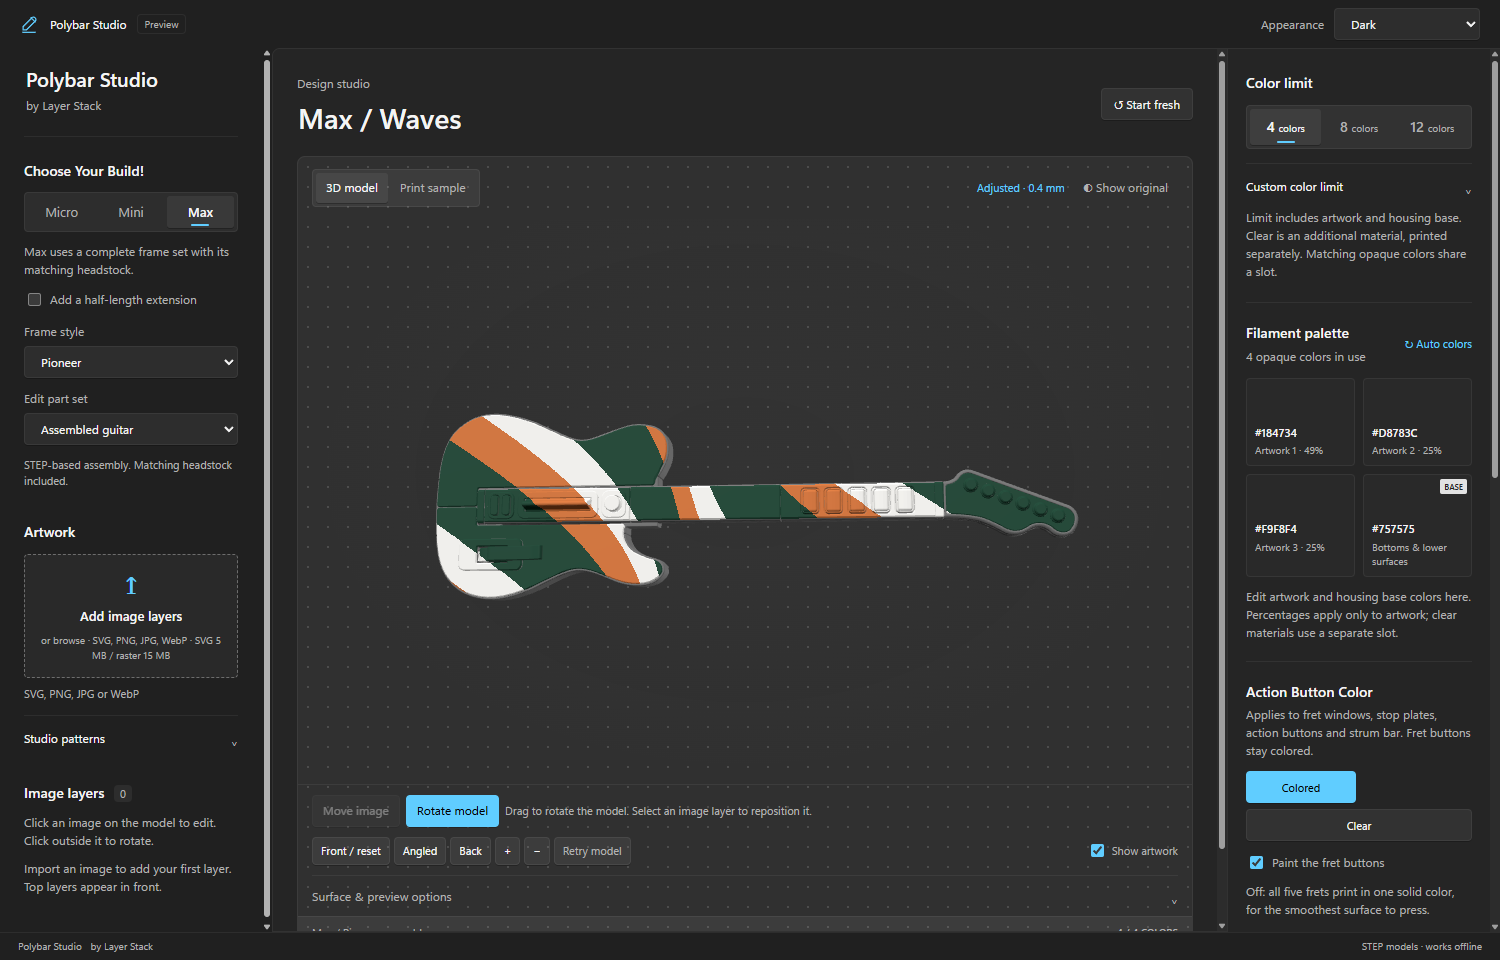
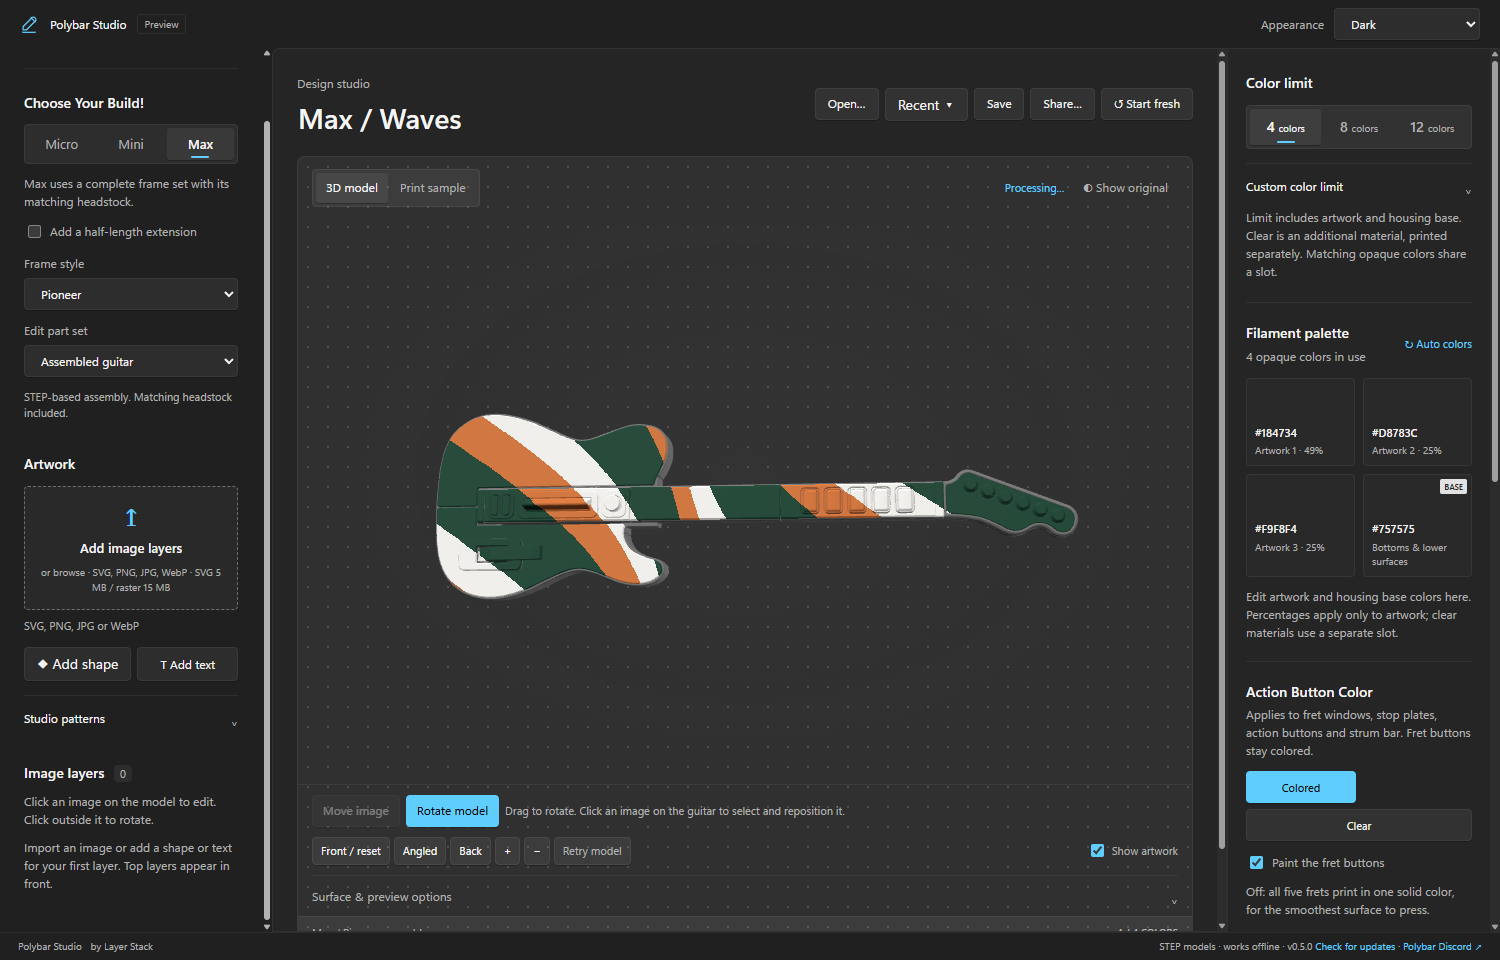
0.5.0: design files, Share and the Polybar Discord, shapes and text, updates; new screenshots

diff --git a/README.md b/README.md
@@ -2,9 +2,9 @@
 
 Paint your Polybar Micro, Mini or Max, then get a print-ready Bambu Studio project for your Bambu Lab printer.
 
-[![Download for Windows](https://img.shields.io/badge/Download_for_Windows-Polybar_Studio_0.4.0-0078D4?style=for-the-badge&logo=windows)](https://github.com/3D-Printed-Controller-Systems/Polybar-Studio-Release/releases/latest/download/Polybar-Studio-Windows.exe)
+[![Download for Windows](https://img.shields.io/badge/Download_for_Windows-Polybar_Studio_0.5.0-0078D4?style=for-the-badge&logo=windows)](https://github.com/3D-Printed-Controller-Systems/Polybar-Studio-Release/releases/latest/download/Polybar-Studio-Windows.exe)
 
-Windows 10 or 11, 64-bit · about 50 MB · works offline · [all releases](https://github.com/3D-Printed-Controller-Systems/Polybar-Studio-Release/releases)
+Windows 10 or 11, 64-bit · about 50 MB · works offline · [all releases](https://github.com/3D-Printed-Controller-Systems/Polybar-Studio-Release/releases) · share your designs in the [Polybar Discord](https://discord.gg/wBRdgxEGhe)
 
 This repository is private: the download works when you're signed in to GitHub with an account that has access.
 
@@ -44,6 +44,7 @@ Drag in the preview to rotate, scroll to zoom, right-drag to pan. **Front / rese
 - **Keyboard** (while an image is selected): arrows move it; **Ctrl + ↑ / ↓** or **+ / −** resize; **Ctrl + ← / →** or **[ ]** rotate; hold **Shift** for bigger steps; **Ctrl + D** duplicates; **Delete** removes; **Esc** deselects.
 - Each layer shows a small preview. **⧉** duplicates a layer, **×** removes it.
 - **Repeat across the guitar** (under the selected image) tiles it as a pattern: set the spacing, and optionally offset every other row. Dragging any copy moves them all.
+- **◆ Add shape** adds a circle, ring, square, triangle, diamond, hexagon, star, burst, heart, lightning bolt, arrow or music note. **T Add text** adds text: type it under the selected layer and pick a font and Bold. Shapes and text are one color: recolor them with their color dot.
 - **Image background › Remove background** takes out a solid background around a logo. Raise **Tolerance** if some background stays.
 - A one-color image (a typical logo) gets a small **color dot** in its row under **Image layers**: click it to recolor the whole image.
 - **Name your design:** click the title above the preview (for example "Mini / Plain") and type. The name is used for the export files.
@@ -110,15 +111,28 @@ Unzip the bundle. It contains:
 
 In the slicer, pick your actual filament profiles, check that each color goes to the right AMS slot, and look over the sliced preview before printing.
 
+## Save, open and share designs
+
+- **Save** (Ctrl + S) saves your design as a `.polybar` file: the build, colors, print settings and every layer. **Ctrl + Shift + S** saves a copy under a new name. **Open…** (Ctrl + O) opens one; **Recent ▾** lists the designs you used lately. Double-clicking a `.polybar` file in Explorer opens it too.
+- Polybar Studio also keeps your work every 30 seconds. If it closes unexpectedly, choose **Restore it** the next time it opens.
+- **Share…** makes a picture of your design (turn the model first for a different angle). **Copy picture** and paste it into your post, and **Save design file…** to attach the `.polybar` file so others can open, change and print it. **Polybar Discord ↗** takes you to the community ([discord.gg/wBRdgxEGhe](https://discord.gg/wBRdgxEGhe)); the same link is at the bottom of the window.
+
+<picture>
+  <source media="(prefers-color-scheme: dark)" srcset=".github/assets/share-dark.png">
+  <img alt="The Share dialog with a picture of the design" src=".github/assets/share-light.png">
+</picture>
+
 ## Good to know
 
-- **Designs aren't saved** between sessions. Export (or save the PNG) before closing the app.
+- **Updates:** when a new version is out, Polybar Studio asks to install it (your design is kept). Tick **Install updates automatically when Polybar Studio starts** to skip the question, or use **Check for updates** at the bottom of the window. Updates are signed, so the app only installs genuine ones.
 - **Enforcer** can be previewed and painted, but can't be exported as print plates yet.
 - Exports have been sliced with Bambu Studio's command line (all plates, painted colors intact). Please report anything that looks wrong when you open one (a wrong color, a piece upside down, an odd layout).
 
 ## Releases
 
 Each release lists the installer's SHA-256 and the [Development](https://github.com/3D-Printed-Controller-Systems/Polybar-Studio-Development) commit it was built from.
+
+**0.5.0**: save and open designs (`.polybar` files, Recent, autosave and Restore, double-click to open); Share (a picture and the design file) and the Polybar Discord link; shapes and text; updates from inside the app.
 
 **0.4.0**: printable-width guarantee with a "print at your own risk" warning; single-color frets; Bambu spool color presets; typed values, keyboard shortcuts, layer previews, duplicate and repeat for images; rename your design; the color plates, power slider and pivot pins in the export; "Tinted clear" removed.
 
